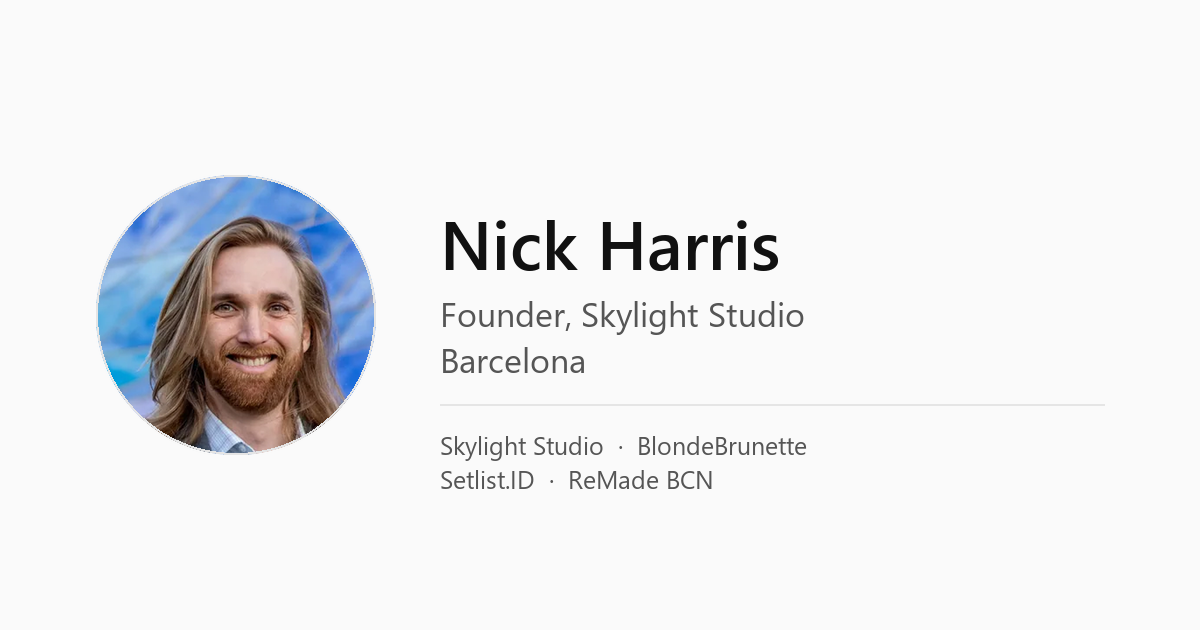
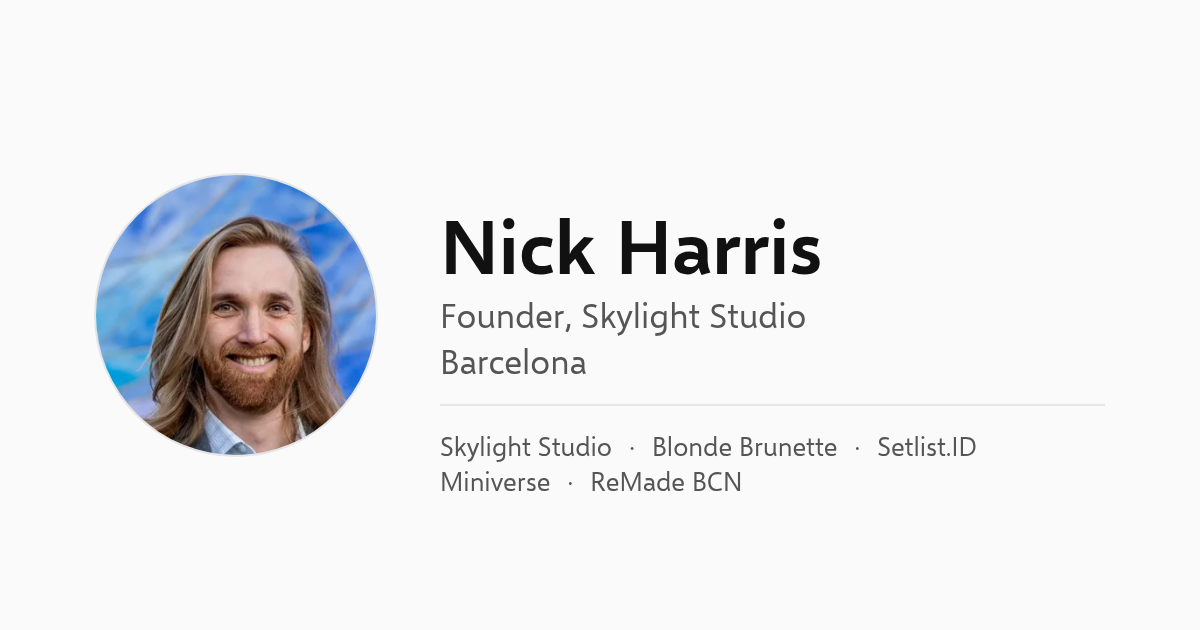
Reposition Skylight Studio, add Miniverse, new contact email
- Skylight Studio is now described as a consulting studio that brings
  organization and technology to small businesses, in the bio, tile,
  meta description, JSON-LD and llms.txt.
- Add a Miniverse tile, bio mention, sameAs link and llms.txt entry.
- Remove the past-clients line.
- Contact email is now nickharris@skylightstudio.co.
- Blonde Brunette is two words everywhere in copy.
- Regenerate the social card with the new project list; bump sitemap lastmod.

diff --git a/index.html b/index.html
@@ -4,7 +4,7 @@
     <meta charset="utf-8" />
     <meta name="viewport" content="width=device-width, initial-scale=1" />
     <title>Nick Harris | Founder, Skylight Studio | Barcelona</title>
-    <meta name="description" content="Nick Harris is the founder of Skylight Studio, an enterprise AI consultancy. He makes music as BlondeBrunette, builds Setlist.ID, and serves on the board of ReMade BCN. Based in Barcelona." />
+    <meta name="description" content="Nick Harris is the founder of Skylight Studio, a consulting studio that brings organization and technology to small businesses. He makes music as Blonde Brunette, builds Setlist.ID and Miniverse, and serves on the board of ReMade BCN. Based in Barcelona." />
     <link rel="canonical" href="https://itsnick.app/" />
 
     <link rel="icon" type="image/svg+xml" href="/favicon.svg" />
@@ -21,7 +21,7 @@
     <meta property="og:type" content="website" />
     <meta property="og:url" content="https://itsnick.app/" />
     <meta property="og:title" content="Nick Harris | Founder, Skylight Studio" />
-    <meta property="og:description" content="Founder of Skylight Studio. One half of BlondeBrunette. Builder of Setlist.ID. Co-founder of ReMade BCN. Based in Barcelona." />
+    <meta property="og:description" content="Founder of Skylight Studio. One half of Blonde Brunette. Builder of Setlist.ID and Miniverse. Co-founder of ReMade BCN. Based in Barcelona." />
     <meta property="og:site_name" content="Nick Harris" />
     <meta property="og:locale" content="en_US" />
     <meta property="og:image" content="https://itsnick.app/og-image.png" />
@@ -110,8 +110,9 @@
         display: grid;
         grid-template-columns: repeat(2, 1fr);
         gap: 12px;
-        margin: 0 0 24px;
+        margin: 0 0 28px;
       }
+      .tile:first-child { grid-column: 1 / -1; }
       .tile {
         display: flex;
         align-items: center;
@@ -149,12 +150,6 @@
         color: var(--muted);
         font-size: 14px;
         margin-top: 4px;
-      }
-      .proof {
-        text-align: center;
-        color: var(--muted);
-        font-size: 13px;
-        margin: 0 0 28px;
       }
       .socials {
         display: flex;
@@ -219,8 +214,8 @@
             "height": 320
           },
           "jobTitle": "Founder, Skylight Studio",
-          "email": "hello@itsnick.app",
-          "description": "Founder of Skylight Studio, an enterprise AI consultancy. One half of BlondeBrunette. Builder of Setlist.ID. Founder and board member of ReMade BCN. Based in Barcelona.",
+          "email": "nickharris@skylightstudio.co",
+          "description": "Founder of Skylight Studio, a consulting studio that brings organization and technology to small businesses. One half of Blonde Brunette. Builder of Setlist.ID and Miniverse. Founder and board member of ReMade BCN. Based in Barcelona.",
           "worksFor": {
             "@type": "Organization",
             "name": "Skylight Studio",
@@ -233,11 +228,12 @@
           },
           "birthPlace": { "@type": "Place", "name": "South Africa" },
           "homeLocation": { "@type": "Place", "name": "Barcelona, Spain" },
-          "knowsAbout": ["Enterprise AI", "Data Analytics", "Business Intelligence", "AI Consulting", "Machine Learning", "Music Production", "DJ Tracklist Identification", "Community Makerspaces"],
+          "knowsAbout": ["Small Business Consulting", "Business Operations", "Data Analytics", "Business Intelligence", "AI Consulting", "Machine Learning", "Music Production", "DJ Tracklist Identification", "Social Media Apps", "Community Makerspaces"],
           "sameAs": [
             "https://skylightstudio.co",
             "https://blondebrunette.music",
             "https://setlist.id",
+            "https://miniverse.lol",
             "https://www.made-bcn.org/",
             "https://www.linkedin.com/in/nicholasmharris/",
             "https://instagram.com/africanick",
@@ -249,7 +245,7 @@
           "@id": "https://itsnick.app/#website",
           "url": "https://itsnick.app/",
           "name": "Nick Harris",
-          "description": "Personal site of Nick Harris, founder of Skylight Studio, one half of BlondeBrunette, and builder of Setlist.ID.",
+          "description": "Personal site of Nick Harris, founder of Skylight Studio, one half of Blonde Brunette, and builder of Setlist.ID and Miniverse.",
           "inLanguage": "en",
           "publisher": { "@id": "https://itsnick.app/#nick" }
         },
@@ -273,8 +269,8 @@
       <h1>Nick Harris</h1>
       <div class="bio">
         <p>Hi, I'm Nick. Founder, builder, DJ, based in Barcelona via South Africa and Florida.</p>
-        <p>I run <a href="https://skylightstudio.co">Skylight Studio</a>, where we bring enterprise-grade AI to teams that have been told it's out of reach. Before that, a decade building analytics practices in motorsports, logistics, energy, and healthcare.</p>
-        <p>On the side: I make music as one half of <a href="https://blondebrunette.music">BlondeBrunette</a>, and build <a href="https://setlist.id">Setlist.ID</a>, a tool that identifies tracklists in DJ mixes.</p>
+        <p>I run <a href="https://skylightstudio.co">Skylight Studio</a>, a consulting studio that brings organization and technology to small businesses. Before that, a decade building analytics practices in motorsports, logistics, energy, and healthcare.</p>
+        <p>On the side: I make music as one half of <a href="https://blondebrunette.music">Blonde Brunette</a>, and build <a href="https://setlist.id">Setlist.ID</a>, a tool that identifies tracklists in DJ mixes, and <a href="https://miniverse.lol">Miniverse</a>, social media for the people in your life.</p>
         <p>I also founded and serve on the board of <a href="https://www.made-bcn.org/">ReMade BCN</a>, a community-run makerspace focused on open tools, learning, and collaboration.</p>
       </div>
 
@@ -286,13 +282,13 @@
           </picture>
           <div class="tile-text">
             <div class="tile-name">Skylight Studio</div>
-            <div class="tile-desc">Enterprise AI, built to ship</div>
+            <div class="tile-desc">Tech for small businesses</div>
           </div>
         </a>
         <a class="tile" href="https://blondebrunette.music" rel="me">
           <img class="tile-logo" src="/blondebrunette-logo.png" alt="" width="72" height="72" loading="lazy" decoding="async" />
           <div class="tile-text">
-            <div class="tile-name">BlondeBrunette</div>
+            <div class="tile-name">Blonde Brunette</div>
             <div class="tile-desc">Electronic music duo</div>
           </div>
         </a>
@@ -301,6 +297,13 @@
           <div class="tile-text">
             <div class="tile-name">Setlist.ID</div>
             <div class="tile-desc">Shazam for DJ mixes</div>
+          </div>
+        </a>
+        <a class="tile" href="https://miniverse.lol" rel="me">
+          <img class="tile-logo" src="/miniverse-logo.svg" alt="" width="72" height="72" loading="lazy" decoding="async" />
+          <div class="tile-text">
+            <div class="tile-name">Miniverse</div>
+            <div class="tile-desc">Next generation social media</div>
           </div>
         </a>
         <a class="tile" href="https://www.made-bcn.org/" rel="me">
@@ -312,8 +315,6 @@
         </a>
       </div>
 
-      <p class="proof">Past clients: NASCAR. DoorDash. National Grid. Tufts Health Plan.</p>
-
       <ul class="socials">
         <li><a href="https://www.linkedin.com/in/nicholasmharris/" rel="me" aria-label="LinkedIn">
           <svg viewBox="0 0 24 24" fill="currentColor" aria-hidden="true"><path d="M19 3H5a2 2 0 0 0-2 2v14a2 2 0 0 0 2 2h14a2 2 0 0 0 2-2V5a2 2 0 0 0-2-2zM8.34 18.34H5.67V9.67h2.67v8.67zM7 8.5a1.55 1.55 0 1 1 0-3.1 1.55 1.55 0 0 1 0 3.1zm11.34 9.84h-2.67v-4.21c0-1 0-2.29-1.4-2.29s-1.61 1.09-1.61 2.22v4.28H10V9.67h2.56v1.18h.04a2.81 2.81 0 0 1 2.53-1.39c2.71 0 3.21 1.78 3.21 4.1v4.78z"/></svg>
@@ -324,13 +325,13 @@
         <li><a href="https://github.com/itsnicknick" rel="me" aria-label="GitHub">
           <svg viewBox="0 0 24 24" fill="currentColor" aria-hidden="true"><path d="M12 .5C5.65.5.5 5.65.5 12a11.5 11.5 0 0 0 7.86 10.92c.58.1.79-.25.79-.56v-2c-3.2.7-3.88-1.36-3.88-1.36-.52-1.33-1.28-1.69-1.28-1.69-1.05-.72.08-.7.08-.7 1.16.08 1.77 1.19 1.77 1.19 1.03 1.77 2.71 1.26 3.37.96.1-.75.4-1.26.73-1.55-2.55-.29-5.24-1.28-5.24-5.7 0-1.26.45-2.29 1.19-3.1-.12-.29-.52-1.47.11-3.07 0 0 .97-.31 3.18 1.18a11 11 0 0 1 5.79 0c2.21-1.49 3.18-1.18 3.18-1.18.63 1.6.23 2.78.11 3.07.74.81 1.19 1.84 1.19 3.1 0 4.43-2.69 5.41-5.25 5.69.41.36.77 1.05.77 2.12v3.14c0 .31.21.67.8.56A11.5 11.5 0 0 0 23.5 12C23.5 5.65 18.35.5 12 .5z"/></svg>
         </a></li>
-        <li><a href="mailto:hello@itsnick.app" aria-label="Email">
+        <li><a href="mailto:nickharris@skylightstudio.co" aria-label="Email">
           <svg viewBox="0 0 24 24" fill="none" stroke="currentColor" stroke-width="2" stroke-linecap="round" stroke-linejoin="round" aria-hidden="true"><rect x="3" y="5" width="18" height="14" rx="2"/><path d="m3 7 9 6 9-6"/></svg>
         </a></li>
       </ul>
 
       <footer>
-        <a href="https://github.com/Skylight-Studio/itsnick.app" rel="me">View source</a> · <a href="mailto:hello@itsnick.app">hello@itsnick.app</a>
+        <a href="https://github.com/Skylight-Studio/itsnick.app" rel="me">View source</a> · <a href="mailto:nickharris@skylightstudio.co">nickharris@skylightstudio.co</a>
       </footer>
     </main>
   </body>
